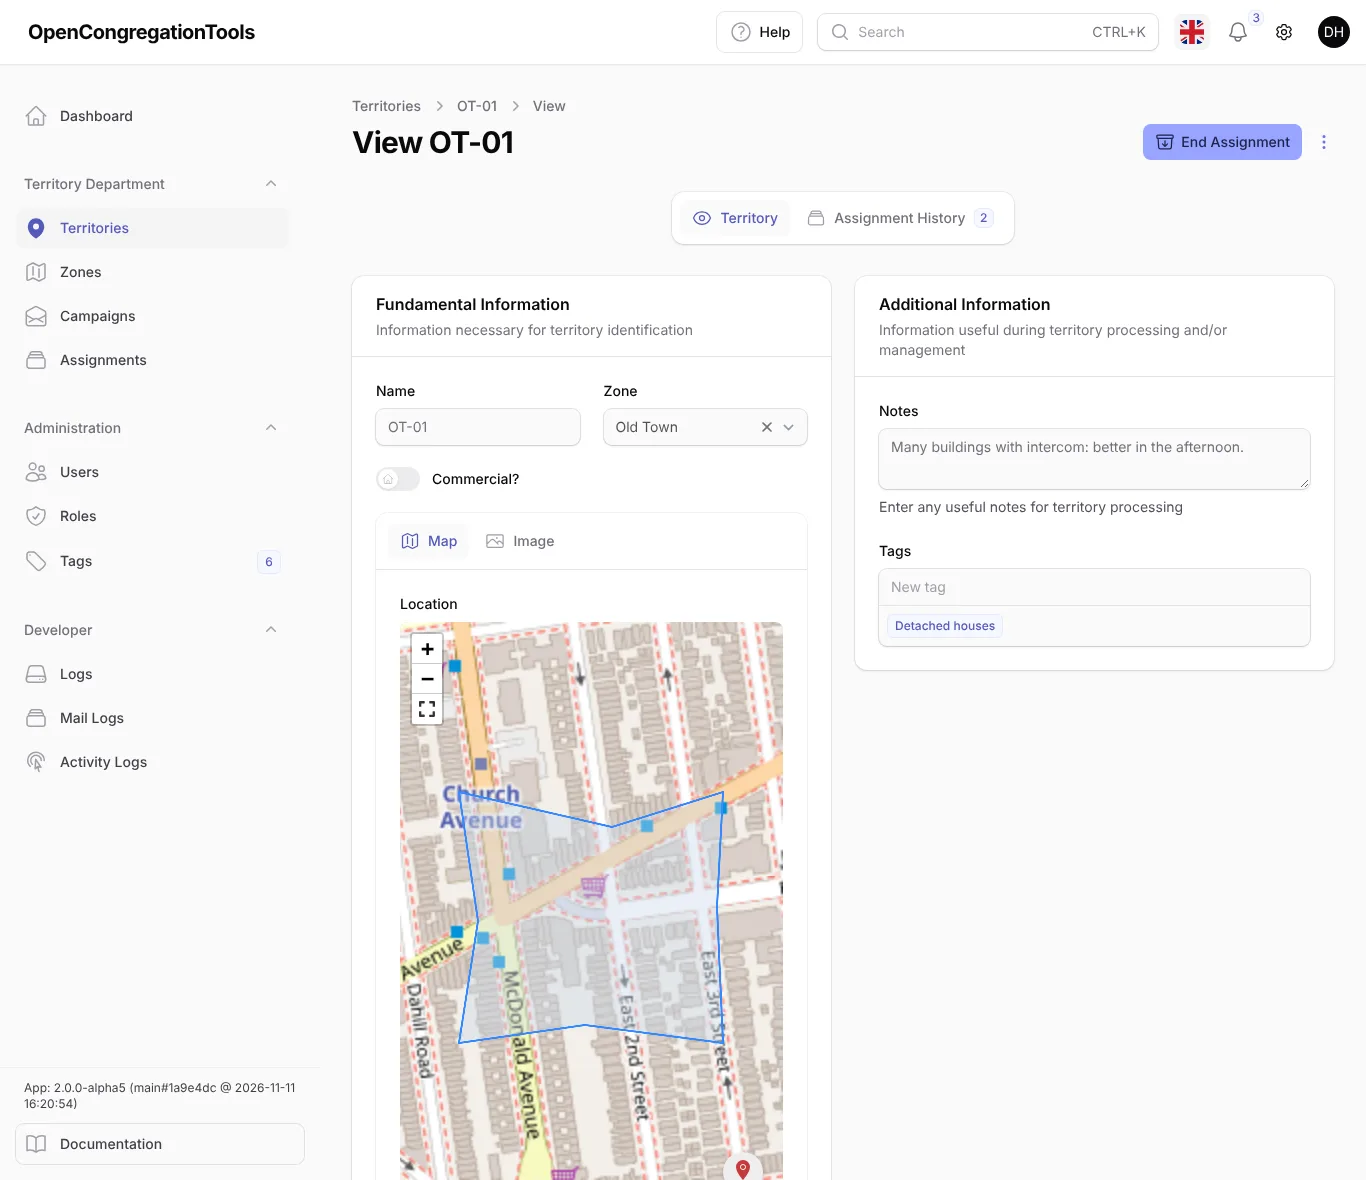
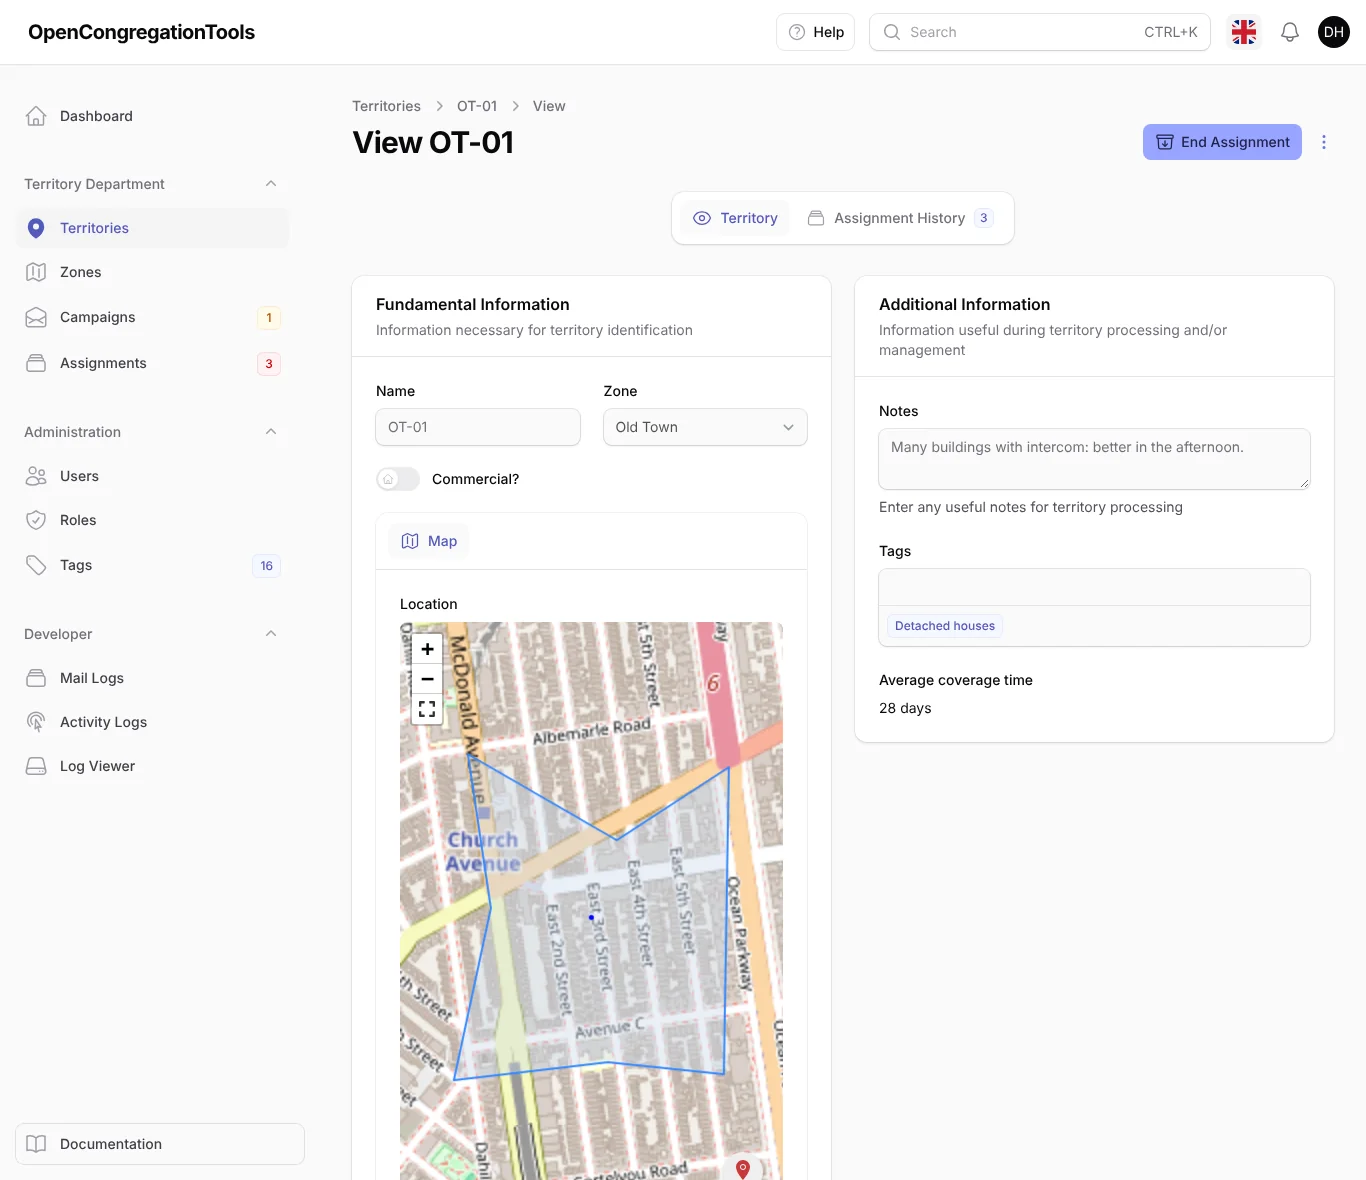
feat: show average coverage time of territories (#40)
Show on the territory page how long the territory takes to be
covered on average, based on its returned assignments. Share the
returned assignments and their duration with the dashboard widget.

Closes #19

diff --git a/tests/Feature/TerritoryAverageCoverageTimeTest.php b/tests/Feature/TerritoryAverageCoverageTimeTest.php
@@ -1,0 +1,117 @@
+<?php
+
+use App\Filament\Resources\Territories\Pages\EditTerritory;
+use App\Filament\Resources\Territories\Pages\ViewTerritory;
+use App\Filament\Resources\Territories\TerritoryResource;
+use App\Models\Territory;
+use App\Models\TerritoryAssignment;
+use App\Models\TerritoryZone;
+use App\Models\User;
+use Filament\Facades\Filament;
+use Illuminate\Support\Facades\Notification;
+use Livewire\Livewire;
+use Spatie\Permission\Models\Permission;
+
+beforeEach(function () {
+    $this->freezeTime();
+    Notification::fake();
+    Filament::setCurrentPanel('app');
+
+    User::factory()->create(['id' => 1]);
+
+    $user = User::factory()->create();
+    foreach (['ViewAny:Territory', 'View:Territory', 'Update:Territory'] as $permission) {
+        $user->givePermissionTo(Permission::findOrCreate($permission, 'web'));
+    }
+    $this->actingAs($user);
+
+    $this->territory = Territory::factory()->for(TerritoryZone::factory(), 'territoryZone')->create();
+});
+
+/**
+ * Create an assignment of the test territory between the given number of days ago.
+ */
+function coverageOfTerritory(Territory $territory, int $startedDaysAgo, ?int $endedDaysAgo): TerritoryAssignment
+{
+    return TerritoryAssignment::factory()->create([
+        'territory_id' => $territory->id,
+        'assignee_id' => User::factory()->create()->id,
+        'started_at' => now()->subDays($startedDaysAgo),
+        'ended_at' => $endedDaysAgo === null ? null : now()->subDays($endedDaysAgo),
+    ]);
+}
+
+test('the average coverage time only counts the returned assignments', function () {
+    coverageOfTerritory($this->territory, 100, 90);
+    coverageOfTerritory($this->territory, 80, 50);
+    coverageOfTerritory($this->territory, 20, null);
+
+    expect($this->territory->averageCoverageDays())->toEqual(20.0);
+});
+
+test('a territory never returned has no average coverage time', function () {
+    coverageOfTerritory($this->territory, 20, null);
+
+    expect($this->territory->averageCoverageDays())->toBeNull();
+});
+
+test('the average coverage time ignores deleted assignments', function () {
+    coverageOfTerritory($this->territory, 100, 90);
+    coverageOfTerritory($this->territory, 80, 50)->delete();
+
+    expect($this->territory->averageCoverageDays())->toEqual(10.0);
+});
+
+test('the average coverage time ignores the assignments ending before they start', function () {
+    coverageOfTerritory($this->territory, 100, 90);
+    TerritoryAssignment::factory()->createQuietly([
+        'territory_id' => $this->territory->id,
+        'assignee_id' => User::factory()->create()->id,
+        'started_at' => now()->subDays(10),
+        'ended_at' => now()->subDays(40),
+    ]);
+
+    expect($this->territory->averageCoverageDays())->toEqual(10.0);
+});
+
+test('the average coverage time counts calendar days, like the dashboard', function () {
+    TerritoryAssignment::factory()->create([
+        'territory_id' => $this->territory->id,
+        'assignee_id' => User::factory()->create()->id,
+        'started_at' => today()->subDays(3)->setTime(20, 0),
+        'ended_at' => today()->subDays(2)->setTime(8, 0),
+    ]);
+
+    expect($this->territory->averageCoverageDays())->toEqual(1.0);
+});
+
+test('the average coverage time is formatted in days', function (?float $days, ?string $expected) {
+    app()->setLocale('en');
+
+    expect(TerritoryResource::formatAverageCoverageTime($days))->toBe($expected);
+})->with([
+    'never covered' => [null, null],
+    'less than a day' => [0.3, 'Less than a day'],
+    'negative' => [-3.0, 'Less than a day'],
+    'one day' => [1.2, '1 day'],
+    'rounded days' => [14.6, '15 days'],
+]);
+
+test('the territory page shows the average coverage time', function () {
+    coverageOfTerritory($this->territory, 100, 90);
+    coverageOfTerritory($this->territory, 80, 50);
+
+    Livewire::test(ViewTerritory::class, ['record' => $this->territory->getKey()])
+        ->assertSee(__('filament-resources.territory.field_average_coverage_time'))
+        ->assertSee(trans_choice('filament-resources.territory.assignment_duration_day', 20, ['count' => 20]));
+});
+
+test('the territory page tells when the territory was never covered', function () {
+    Livewire::test(ViewTerritory::class, ['record' => $this->territory->getKey()])
+        ->assertSee(__('filament-resources.territory.average_coverage_time_never_covered'));
+});
+
+test('the edit page does not show the average coverage time', function () {
+    Livewire::test(EditTerritory::class, ['record' => $this->territory->getKey()])
+        ->assertDontSee(__('filament-resources.territory.field_average_coverage_time'));
+});

diff --git a/app/Filament/Resources/Territories/TerritoryResource.php b/app/Filament/Resources/Territories/TerritoryResource.php
@@ -372,8 +372,31 @@ class TerritoryResource extends Resource implements HasKnowledgeBase
                         SpatieTagsInput::make('tags')
                             ->label(__('filament-resources.territory.field_tags'))
                             ->type(TagType::TERRITORIES->value),
+                        TextEntry::make('average_coverage_time')
+                            ->label(__('filament-resources.territory.field_average_coverage_time'))
+                            ->visibleOn('view')
+                            ->state(fn (Territory $record): ?string => static::formatAverageCoverageTime($record->averageCoverageDays()))
+                            ->placeholder(__('filament-resources.territory.average_coverage_time_never_covered')),
                     ]),
             ]);
+    }
+
+    /**
+     * Format the average coverage time of a territory, given in days.
+     */
+    public static function formatAverageCoverageTime(?float $days): ?string
+    {
+        if ($days === null) {
+            return null;
+        }
+
+        $roundedDays = (int) round($days);
+
+        if ($roundedDays <= 0) {
+            return __('filament-resources.territory.average_coverage_time_less_than_a_day');
+        }
+
+        return trans_choice('filament-resources.territory.assignment_duration_day', $roundedDays, ['count' => $roundedDays]);
     }
 
     public static function table(Table $table): Table

diff --git a/app/Models/TerritoryAssignment.php b/app/Models/TerritoryAssignment.php
@@ -13,6 +13,7 @@ use Illuminate\Database\Eloquent\Factories\HasFactory;
 use Illuminate\Database\Eloquent\Model;
 use Illuminate\Database\Eloquent\Relations\BelongsTo;
 use Illuminate\Database\Eloquent\SoftDeletes;
+use Illuminate\Support\Facades\DB;
 use Spatie\Activitylog\LogOptions;
 use Spatie\Activitylog\Traits\LogsActivity;
 
@@ -141,6 +142,29 @@ class TerritoryAssignment extends Model
     {
         $query->whereNull('ended_at')
             ->whereHas('campaign', fn (Builder $query) => $query->expiring());
+    }
+
+    /**
+     * Scope a query to only include the returned assignments,
+     * ignoring the inconsistent ones that end before they start.
+     */
+    public function scopeReturned(Builder $query): void
+    {
+        $query->whereNotNull('ended_at')
+            ->whereColumn('ended_at', '>=', 'started_at');
+    }
+
+    /**
+     * The SQL expression of the duration of an assignment, in calendar days.
+     */
+    public static function durationInDaysExpression(): string
+    {
+        return match (DB::connection()->getDriverName()) {
+            'sqlite' => 'julianday(date(ended_at)) - julianday(date(started_at))',
+            'pgsql' => '(ended_at::date - started_at::date)',
+            'sqlsrv' => 'DATEDIFF(day, started_at, ended_at)',
+            default => 'DATEDIFF(ended_at, started_at)',
+        };
     }
 
     /**

diff --git a/app/Filament/Widgets/StatsOverview.php b/app/Filament/Widgets/StatsOverview.php
@@ -16,12 +16,7 @@ class StatsOverview extends BaseWidget
 
     protected function getStats(): array
     {
-        $durationExpr = match (DB::connection()->getDriverName()) {
-            'sqlite' => 'julianday(date(ended_at)) - julianday(date(started_at))',
-            'pgsql' => '(ended_at::date - started_at::date)',
-            'sqlsrv' => 'DATEDIFF(day, started_at, ended_at)',
-            default => 'DATEDIFF(ended_at, started_at)',
-        };
+        $durationExpr = TerritoryAssignment::durationInDaysExpression();
 
         $from = now()->subDays(365);
         $to = now();
@@ -50,14 +45,10 @@ class StatsOverview extends BaseWidget
     }
 
     /**
-     * The returned assignments, ignoring the inconsistent ones that end before they start.
-     *
      * @return Builder<TerritoryAssignment>
      */
     private function returnedAssignments(): Builder
     {
-        return TerritoryAssignment::query()
-            ->whereNotNull('ended_at')
-            ->whereColumn('ended_at', '>=', 'started_at');
+        return TerritoryAssignment::query()->returned();
     }
 }

diff --git a/app/Models/Territory.php b/app/Models/Territory.php
@@ -15,6 +15,7 @@ use Illuminate\Database\Eloquent\Relations\HasMany;
 use Illuminate\Database\Eloquent\Relations\HasOne;
 use Illuminate\Database\Eloquent\Relations\HasOneThrough;
 use Illuminate\Database\Eloquent\SoftDeletes;
+use Illuminate\Support\Facades\DB;
 use Spatie\Activitylog\LogOptions;
 use Spatie\Activitylog\Traits\LogsActivity;
 use Spatie\Tags\HasTags;
@@ -96,6 +97,19 @@ class Territory extends Model
             ['ended_at' => 'max'],
             fn (Builder $query) => $query->whereNotNull('ended_at'),
         );
+    }
+
+    /**
+     * Get the average time, in calendar days, the territory took to be covered,
+     * based on its returned assignments (null if it was never returned).
+     */
+    public function averageCoverageDays(): ?float
+    {
+        $average = $this->assignments()
+            ->returned()
+            ->avg(DB::raw(TerritoryAssignment::durationInDaysExpression()));
+
+        return $average === null ? null : (float) $average;
     }
 
     /**

diff --git a/lang/es/filament-resources.php b/lang/es/filament-resources.php
@@ -105,6 +105,9 @@ return [
         'field_notes' => 'Notas',
         'field_notes_helper' => 'Ingresa cualquier nota útil para el procesamiento del territorio',
         'field_tags' => 'Etiquetas',
+        'field_average_coverage_time' => 'Tiempo promedio de cobertura',
+        'average_coverage_time_never_covered' => 'Aún no cubierto',
+        'average_coverage_time_less_than_a_day' => 'Menos de un día',
         'field_location' => 'Ubicación',
         'column_name' => 'Nombre',
         'column_zone' => 'Zona',

diff --git a/lang/it/filament-resources.php b/lang/it/filament-resources.php
@@ -105,6 +105,9 @@ return [
         'field_notes' => 'Note',
         'field_notes_helper' => 'Inserisci eventuali note utili per la lavorazione del territorio',
         'field_tags' => 'Tag',
+        'field_average_coverage_time' => 'Tempo medio di percorrenza',
+        'average_coverage_time_never_covered' => 'Mai percorso finora',
+        'average_coverage_time_less_than_a_day' => 'Meno di un giorno',
         'field_location' => 'Posizione',
         'column_name' => 'Nome',
         'column_zone' => 'Zona',

diff --git a/lang/en/filament-resources.php b/lang/en/filament-resources.php
@@ -105,6 +105,9 @@ return [
         'field_notes' => 'Notes',
         'field_notes_helper' => 'Enter any useful notes for territory processing',
         'field_tags' => 'Tags',
+        'field_average_coverage_time' => 'Average coverage time',
+        'average_coverage_time_never_covered' => 'Never covered yet',
+        'average_coverage_time_less_than_a_day' => 'Less than a day',
         'field_location' => 'Location',
         'column_name' => 'Name',
         'column_zone' => 'Zone',

diff --git a/docs/user-documentation/it/territories/introduction.md b/docs/user-documentation/it/territories/introduction.md
@@ -93,6 +93,9 @@ Clicca una riga per aprire il territorio. La pagina mostra i dati del territorio
 schede separate, e il pulsante **Termina assegnazione** / **Assegna territorio** in alto. Il menu **⋮** contiene
 **Modifica**; il pulsante **Elimina** si trova nella pagina di modifica.
 
+Il **Tempo medio di percorrenza** indica quanto tempo serve in media a percorrere il territorio, dall'inizio alla fine
+delle sue assegnazioni terminate; le assegnazioni ancora in corso non vengono conteggiate.
+
 ![Dettagli del territorio](/docs/user-documentation/it/territories/assets/territory-view.webp)
 
 La scheda **Storico uscite** elenca tutte le assegnazioni del territorio, dalla più recente. Di default mostra solo

diff --git a/docs/user-documentation/en/territories/introduction.md b/docs/user-documentation/en/territories/introduction.md
@@ -94,6 +94,9 @@ Click a row to open the territory. The page shows the territory data, with its *
 and the **End Assignment** / **Assign Territory** button at the top. The **⋮** menu contains **Edit**; the **Delete**
 button is in the edit page.
 
+The **Average coverage time** shows how long the territory takes to be covered on average, from the start to the end
+of its returned assignments; assignments still in progress are not counted.
+
 ![Territory details](/docs/user-documentation/en/territories/assets/territory-view.webp)
 
 The **Assignment History** tab lists every assignment of the territory, from the most recent. By default it only shows

diff --git a/CHANGELOG.md b/CHANGELOG.md
@@ -14,6 +14,8 @@ and this project adheres to [Semantic Versioning](https://semver.org/spec/v2.0.0
   ([#7](https://github.com/OpenCHelper/OpenCongregationHelper/pull/7)).
 - Offer to install the app after logging in: an **Install** button on Android, Chrome and Edge, and the steps to add it
   to the home screen on iPhone and iPad ([#12](https://github.com/OpenCHelper/OpenCongregationHelper/pull/12)).
+- **Average coverage time** on the territory page: how long the territory takes to be covered on average, based on its
+  returned assignments ([#19](https://github.com/OpenCHelper/OpenCongregationHelper/issues/19)).
 
 ### Changed
 
